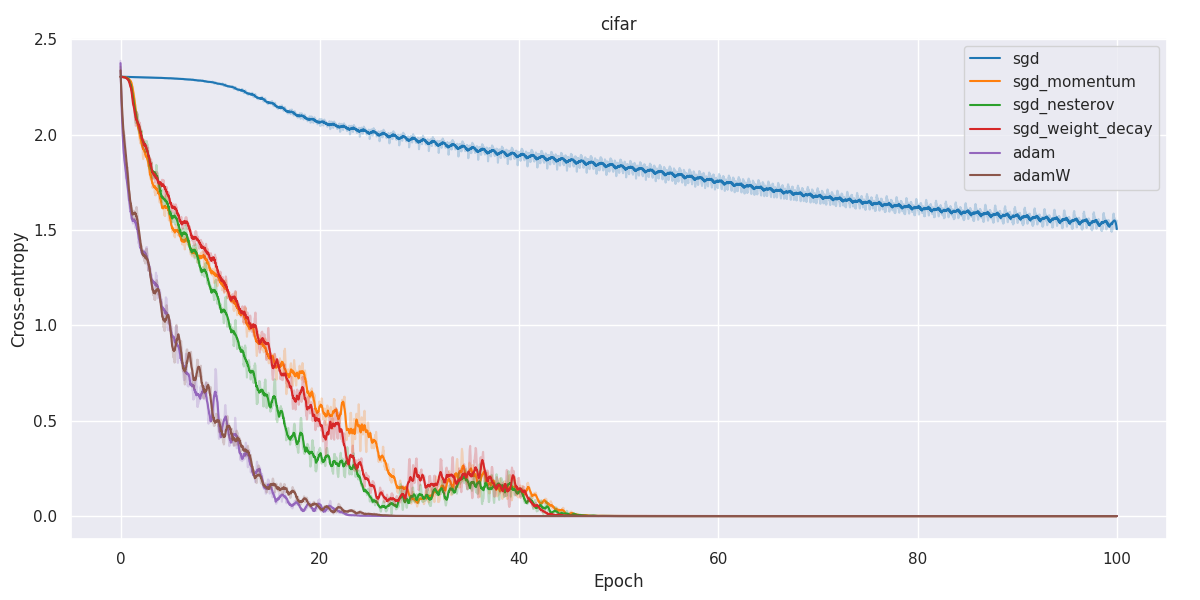
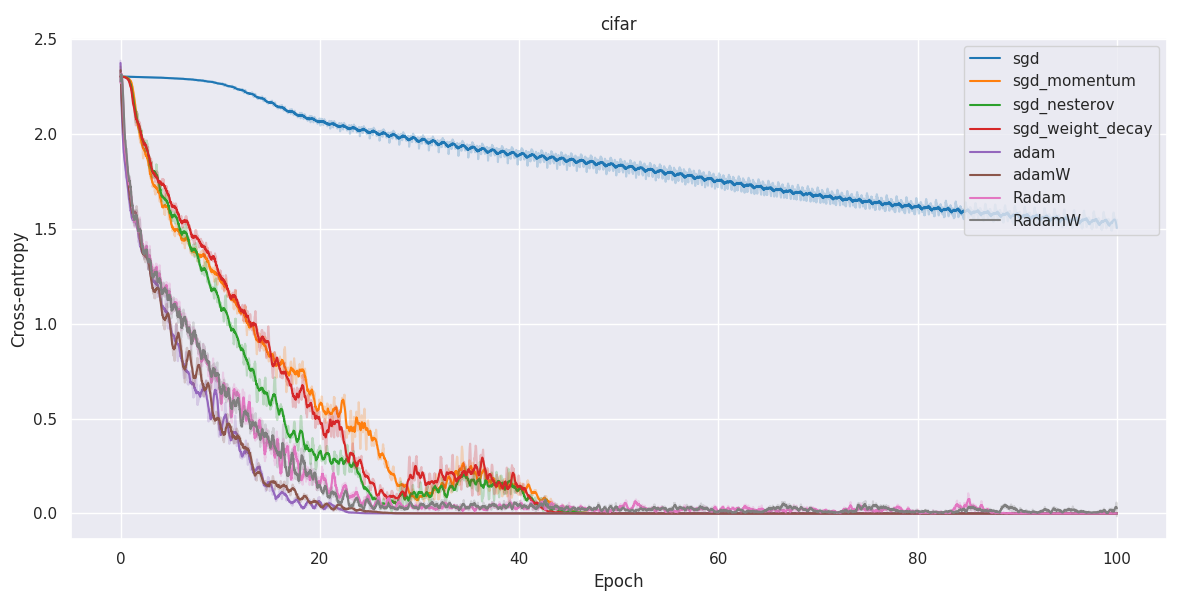
minor updates

diff --git a/misc.py b/misc.py
@@ -134,7 +134,7 @@ def plot_loss(losses, val_losses, num_epochs):
 	plt.clf()
 
 
-def plot_losses(losses, val_losses, labels, num_epochs, title, plot_epochs=False):
+def plot_losses(losses, val_losses, labels, num_epochs, title, plot_val=False):
 	sns.set(style='darkgrid')
 	plt.figure(figsize=(12, 6))
 	colors = ['tab:blue', 'tab:orange', 'tab:green', 'tab:red', 'tab:purple', 'tab:brown', 'tab:pink', 'tab:gray', 'tab:olive', 'tab:cyan']
@@ -142,9 +142,10 @@ def plot_losses(losses, val_losses, labels, num_epochs, title, plot_epochs=False
 	for i in range(len(losses)):
 		smoothed_losses = savgol_filter(losses[i].losses, 61, 3)
 		smoothed_losses_err = savgol_filter(losses[i].losses, 21, 3)
-		plt.plot(np.linspace(0, num_epochs, num=len(losses[i])), smoothed_losses, label=labels[i], alpha=1, c=colors[i])
-		plt.plot(np.linspace(0, num_epochs, num=len(losses[i])), smoothed_losses_err, alpha=0.25, c=colors[i])
-		#plt.plot(np.linspace(0, num_epochs, num=len(val_losses[i])), val_losses[i].losses, alpha=0.75, linestyle='--', c=colors[i])
+		plt.plot(np.linspace(0, num_epochs, num=len(losses[i])), smooth(losses[i].losses, 61), label=labels[i], alpha=1, c=colors[i])
+		plt.plot(np.linspace(0, num_epochs, num=len(losses[i])), smooth(losses[i].losses, 21), alpha=0.25, c=colors[i])
+		if plot_val:
+			plt.plot(np.linspace(0, num_epochs, num=len(val_losses[i])), smooth(val_losses[i].losses, 61), alpha=1, linestyle='--', c=colors[i])
 
 	plt.tight_layout(pad=2)
 	plt.xlabel('Epoch')
@@ -153,3 +154,7 @@ def plot_losses(losses, val_losses, labels, num_epochs, title, plot_epochs=False
 	plt.legend(loc='upper right')
 	plt.savefig(f'loss_{title}.png')
 	plt.clf()
+
+
+def smooth(signal, kernel_size, polyorder=3):
+	return savgol_filter(signal, kernel_size, polyorder)

diff --git a/main.py b/main.py
@@ -12,8 +12,8 @@ if __name__ == '__main__':
 	parser = argparse.ArgumentParser()
 	parser.add_argument('-num_epochs', type=int, default=100)
 	parser.add_argument('-dataset', type=str, default='mnist')
-	parser.add_argument('-num_train', type=int, default=4096)
-	parser.add_argument('-num_val', type=int, default=512)
+	parser.add_argument('-num_train', type=int, default=8192)
+	parser.add_argument('-num_val', type=int, default=1024)
 	parser.add_argument('-only_plot', type=bool, default=False)
 	args = parser.parse_args()
 
@@ -54,12 +54,12 @@ if __name__ == '__main__':
 			'l2_reg': 1e-4
 		},
 		'Radam': {
-			'lr': 1e-2,
-			'rectified': 1
+			'lr': 1e-3,
+			'rectified': True
 		},
 		'RadamW': {
-			'lr': 1e-2,
-			'rectified': 1,
+			'lr': 1e-3,
+			'rectified': True,
 			'weight_decay': 1e-4
 		}
 	}
@@ -94,4 +94,4 @@ if __name__ == '__main__':
 
 	if not torch.cuda.is_available():
 		assert len(opt_losses) == len(opt_val_losses)
-		misc.plot_losses(opt_losses, opt_val_losses, labels=opt_labels, num_epochs=args.num_epochs, title=args.dataset, plot_epochs=False)
+		misc.plot_losses(opt_losses, opt_val_losses, labels=opt_labels, num_epochs=args.num_epochs, title=args.dataset, plot_val=False)

diff --git a/optimizers.py b/optimizers.py
@@ -48,7 +48,7 @@ class SGD(Optimizer):
 
 
 class Adam(Optimizer):
-    def __init__(self, params, lr, beta1=0.9, beta2=0.999, nesterov=False, l2_reg=0, weight_decay=0, rectified=0):
+    def __init__(self, params, lr, beta1=0.9, beta2=0.999, nesterov=False, l2_reg=0, weight_decay=0, rectified=False):
         defaults = {'lr': lr, 'beta1': beta1, 'beta2': beta2, 'nesterov': nesterov, 'l2_reg': l2_reg,
                     'weight_decay': weight_decay, 'rectified': rectified}
         super(Adam, self).__init__(params, defaults)

diff --git a/networks.py b/networks.py
@@ -98,6 +98,6 @@ def fit(net, data, optimizer, batch_size=128, num_epochs=250):
 			print(f'Epoch {epoch}/{num_epochs}, loss: {epoch_loss}, val loss: {epoch_val_loss}')
 
 		losses += epoch_loss.losses
-		val_losses += epoch_val_loss.avg
+		val_losses += epoch_val_loss.losses
 
 	return losses, val_losses
